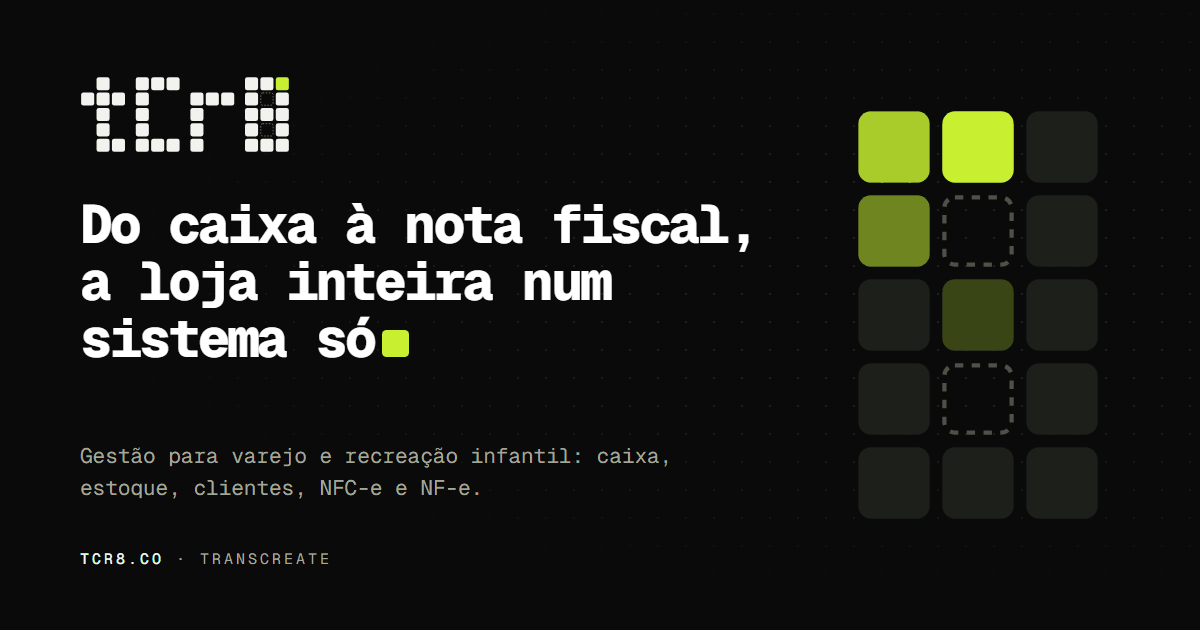
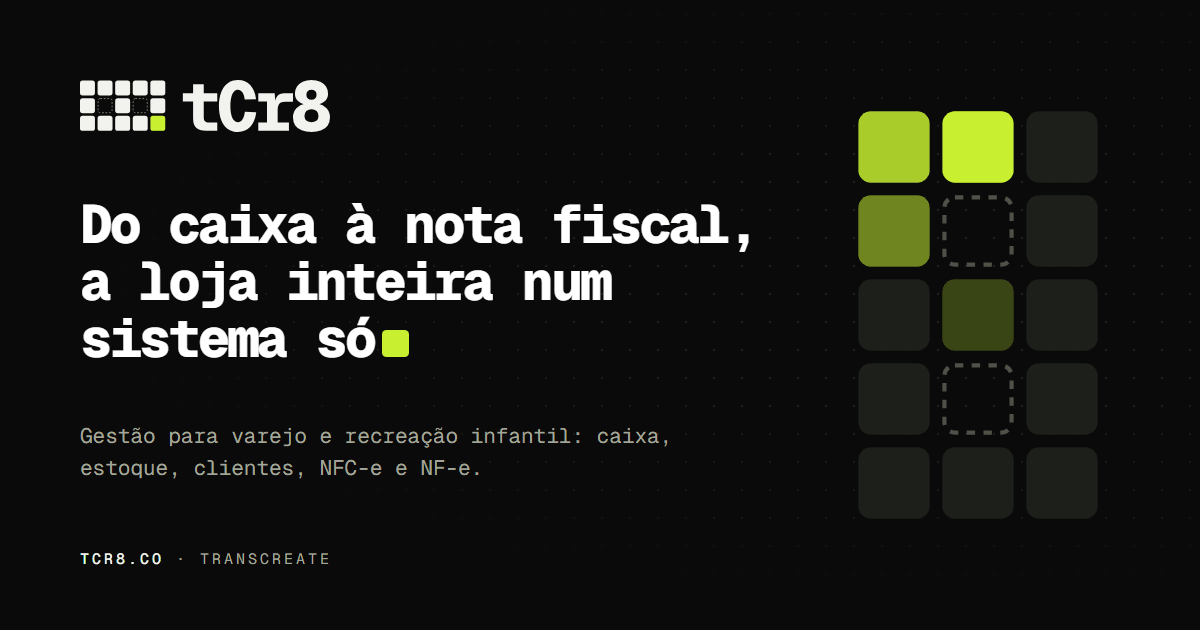
Nome tCr8 em tipo e assinatura ∞ + nome no site
Segue a decisão da marca de 08/10: o logo é só o símbolo em blocos e
o nome tCr8 é tipo (Geist Mono ExtraBold). O rodapé passa a usar a
assinatura horizontal (cópia de brands/tcr8/files/svg), a imagem de
compartilhamento foi refeita com ela e o pixel.js é o atual da marca,
que só desenha o 8 e o ∞. CSS/JS em ?v=3.

Changed region(s): [[0.0617, 0.6635, 0.555, 0.7841], [0.0617, 0.1206, 0.2775, 0.2413]]

diff --git a/assets/js/pixel.js b/assets/js/pixel.js
@@ -1,18 +1,16 @@
 // tCr8 — desenho dos blocos (Pixel ∞), usado pela página e pelo brandbook.
 // Mesma geometria dos SVGs oficiais: bloco 34u com raio 6u, passo 40u (vão de 6u), vazado = contorno
-// tracejado (32u, raio 5u, traço 2u, tracejado 4/4). Letras na grade 3×5; entre letras o passo é 142u.
+// tracejado (32u, raio 5u, traço 2u, tracejado 4/4), na grade 3×5. O nome (tCr8 em tipo) e as assinaturas
+// (símbolo + nome) são arquivos prontos em files/svg, gerados por ferramentas/palavra.py.
 //
 // Marcação: <span class="px" data-px="8" data-tom="preto" data-loop="1" aria-label="…"></span>
-//   data-px    8 | inf | tCr8 (palavra) | qualquer letra de PADROES
+//   data-px    8 | inf
 //   data-tom   preto (padrão) | claro | limao | led (blocos apagados, para o loop no escuro)
 //   data-loop  1 = o cursor percorre o 8 sem parar (130 ms por passo). O loop só troca cores, não desloca
 //              nada, então roda mesmo com "reduzir movimento"; [data-loop-alternar] pausa e retoma todos.
 //   data-grade 1 = mostra a grade de construção (brandbook)
 var TCR8 = (function () {
   var PADROES = {
-    t: ['.X.', 'XXX', '.X.', '.X.', '.XX'],
-    C: ['XXX', 'X..', 'X..', 'X..', 'XXX'],
-    r: ['...', 'XXX', 'X..', 'X..', 'X..'],
     8: ['XXA', 'XOX', 'XXX', 'XOX', 'XXX']
   };
   // percurso do cursor no 8 em pé (coluna, linha): cruza pelo bloco central
@@ -37,12 +35,11 @@ var TCR8 = (function () {
     return out;
   }
 
-  // chave: nome de padrão, palavra, 'inf' ou uma grade própria (array de linhas, usado no brandbook)
-  function letras(chave) {
-    if (Array.isArray(chave)) return [chave];
-    if (chave === 'inf') return [deitar(PADROES[8])];
-    if (PADROES[chave]) return [PADROES[chave]];
-    return chave.split('').map(function (ch) { return PADROES[ch]; });
+  // chave: 8, 'inf' ou uma grade própria (array de linhas, usado no brandbook)
+  function grade(chave) {
+    if (Array.isArray(chave)) return chave;
+    if (chave === 'inf') return deitar(PADROES[8]);
+    return PADROES[chave];
   }
 
   // op: { grade: mostra as células vazias, raio: raio do bloco em u (padrão 6) }
@@ -50,22 +47,18 @@ var TCR8 = (function () {
     op = op || {};
     var cor = TONS[tom] || TONS.preto;
     var rx = op.raio === undefined ? 6 : op.raio, rxo = Math.max(0, rx - 1);
-    var ls = letras(chave);
-    var cols = ls[0][0].length, rows = ls[0].length;
-    var W = (ls.length - 1) * 142 + cols * 40, H = rows * 40;
+    var linhas = grade(chave);
+    var W = linhas[0].length * 40, H = linhas.length * 40;
     var out = '';
-    ls.forEach(function (linhas, i) {
-      var ox = i * 142;
-      linhas.forEach(function (linha, r) {
+    linhas.forEach(function (linha, r) {
         linha.split('').forEach(function (ch, c) {
-          var x = ox + 3 + c * 40, y = 3 + r * 40;
+          var x = 3 + c * 40, y = 3 + r * 40;
           var pos = ' data-c="' + c + '" data-r="' + r + '"';
           if (op.grade && ch === '.') out += '<rect x="' + x + '" y="' + y + '" width="34" height="34" rx="' + rx + '" fill="none" stroke="currentColor" stroke-opacity=".28" stroke-width="1" stroke-dasharray="2 3"/>';
           if (ch === 'X') out += '<rect' + pos + ' x="' + x + '" y="' + y + '" width="34" height="34" rx="' + rx + '" fill="' + cor.tinta + '"/>';
           if (ch === 'A') out += '<rect' + pos + ' data-acento="1" x="' + x + '" y="' + y + '" width="34" height="34" rx="' + rx + '" fill="' + cor.acento + '"/>';
           if (ch === 'O') out += '<rect' + pos + ' data-oco="1" x="' + (x + 1) + '" y="' + (y + 1) + '" width="32" height="32" rx="' + rxo + '" fill="none" stroke="' + cor.oco + '" stroke-width="2" stroke-dasharray="4 4"/>';
         });
-      });
     });
     return '<svg xmlns="http://www.w3.org/2000/svg" viewBox="0 0 ' + W + ' ' + H + '" aria-hidden="true">' + out + '</svg>';
   }

diff --git a/index.html b/index.html
@@ -25,12 +25,12 @@
   <link rel="preconnect" href="https://fonts.googleapis.com">
   <link rel="preconnect" href="https://fonts.gstatic.com" crossorigin>
   <link rel="stylesheet" href="https://fonts.googleapis.com/css2?family=Geist+Mono:wght@400;500;600;800&display=swap">
-  <link rel="stylesheet" href="assets/css/style.css?v=2">
+  <link rel="stylesheet" href="assets/css/style.css?v=3">
 
   <script>document.documentElement.classList.add('js');</script>
-  <script src="assets/js/pixel.js?v=2" defer></script>
-  <script src="assets/js/main.js?v=2" defer></script>
-  <script src="assets/js/demo.js?v=2" defer></script>
+  <script src="assets/js/pixel.js?v=3" defer></script>
+  <script src="assets/js/main.js?v=3" defer></script>
+  <script src="assets/js/demo.js?v=3" defer></script>
 
   <script type="application/ld+json">
   {
@@ -614,7 +614,7 @@
   <footer class="site-footer">
     <div class="container footer-grid">
       <div class="footer-brand">
-        <span class="px footer-word" data-px="tCr8" role="img" aria-label="tCr8"></span>
+        <img class="footer-word" src="assets/img/assinatura_preto.svg" alt="tCr8" width="150" height="31" loading="lazy">
         <p class="rotulo">transcreate · criações transparentes</p>
       </div>
       <nav class="footer-links" aria-label="Rodapé">

diff --git a/assets/css/style.css b/assets/css/style.css
@@ -475,7 +475,7 @@ button, input, select, textarea { font: inherit; color: inherit; }
 /* ---------- Rodapé ---------- */
 .site-footer { padding: 40px 0 44px; border-top: 1px solid var(--line); }
 .footer-grid { display: grid; grid-template-columns: 1fr auto; gap: 28px 40px; align-items: start; }
-.footer-word { width: 96px; }
+.footer-word { width: 150px; height: auto; }
 .footer-brand .rotulo { margin-top: 16px; }
 .footer-links { display: flex; flex-wrap: wrap; gap: 8px 20px; justify-content: flex-end; font-size: 13.5px; }
 .footer-links a, .footer-links .link-btn { color: var(--ink-2); text-decoration: none; }

diff --git a/README.md b/README.md
@@ -16,6 +16,7 @@ assets/js/pixel.js           Desenho dos blocos da marca e o loop do 8 — cópi
 assets/js/main.js            Menu mobile, animações de entrada, "Entrar", envio do formulário
 assets/js/demo.js            Demonstração animada do topo (caixa ↔ recreação)
 assets/img/favicon.svg       O 8 sobre preto — cópia de brands/tcr8/files/img/favicon.svg
+assets/img/assinatura_*.svg  Assinatura horizontal (∞ + nome) — cópia de brands/tcr8/files/svg/
 assets/img/favicon-32.png, apple-touch-icon.png   O mesmo favicon em PNG
 assets/img/og-tcr8.png       Imagem de compartilhamento 1200×630 (WhatsApp, LinkedIn etc.)
 robots.txt, sitemap.xml
@@ -25,7 +26,7 @@ robots.txt, sitemap.xml
 
 O site segue a identidade **Pixel ∞** do Brand Resources (`sys/brands/tcr8`):
 
-- **Logo**: blocos numa grade 3×5. O símbolo é o 8 (em pé) ou o infinito (deitado); a palavra é `tCr8` em blocos. Tudo é desenhado pelo `pixel.js` a partir de `<span class="px" data-px="8|inf|tCr8" data-tom="preto|claro|limao|led" data-loop="1">`. Se a marca mudar o desenho, basta copiar o `pixel.js` novo para `assets/js/`.
+- **Logo**: o símbolo em blocos numa grade 3×5 — o 8 (em pé) ou o infinito (deitado), desenhado pelo `pixel.js` a partir de `<span class="px" data-px="8|inf" data-tom="preto|claro|limao|led" data-loop="1">`. O nome `tCr8` é só tipo (Geist Mono ExtraBold), nunca em blocos. No rodapé vai a assinatura horizontal (∞ + nome), `assets/img/assinatura_preto.svg`, cópia de `brands/tcr8/files/svg/`. Se a marca mudar, basta copiar o `pixel.js` e os SVGs novos para cá.
 - **Cores**: Preto `#0A0A0A`, Limão `#C8F031`, Névoa `#E9EAE4`, Giz `#F2F3EE`, Grafite `#4D5147` e os quatro tons do rastro do loop. O limão é o "bloco aceso": um acento por área (o número da seção, o botão principal, o carimbo da nota), nunca fundo de página.
 - **Fonte**: só Geist Mono (400, 500, 600, 800), pelo Google Fonts.
 - **Movimento**: o cursor percorrendo o 8 aparece no infinito da seção "Feito no balcão" e como indicador de carregamento (aviso da NFC-e na demonstração e botão de enviar o formulário).
